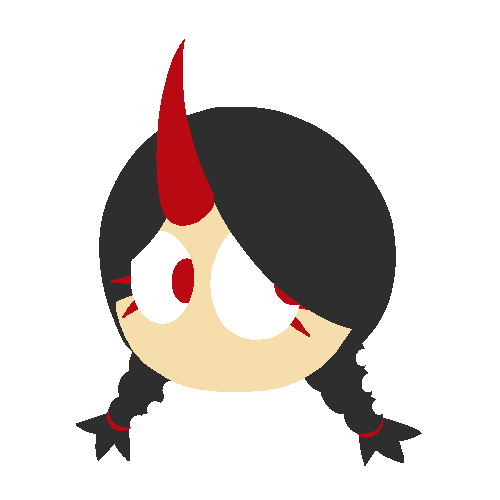
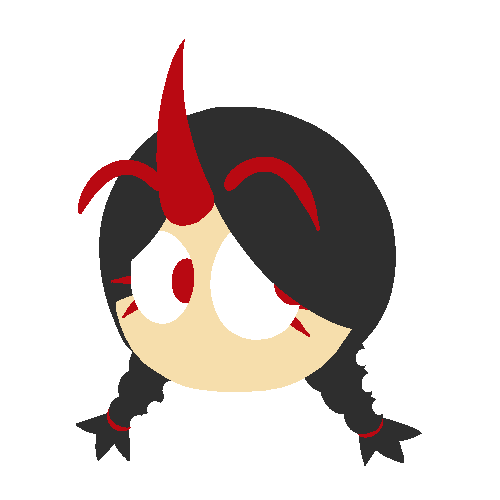
add img

Changed region(s): [[0.45, 0.3, 0.66, 0.48], [0.15, 0.3, 0.33, 0.42]]

diff --git a/tir/changelog/changelog.md b/tir/changelog/changelog.md
@@ -10,7 +10,7 @@ titlezh: 更新日志
 
 ## 2025-04-09
 
-- Added `jackalope thumb.png`;
+- Added `jackalope thumb.png`, `creepy govt family.png`;
 
 ## 2025-04-08
 
